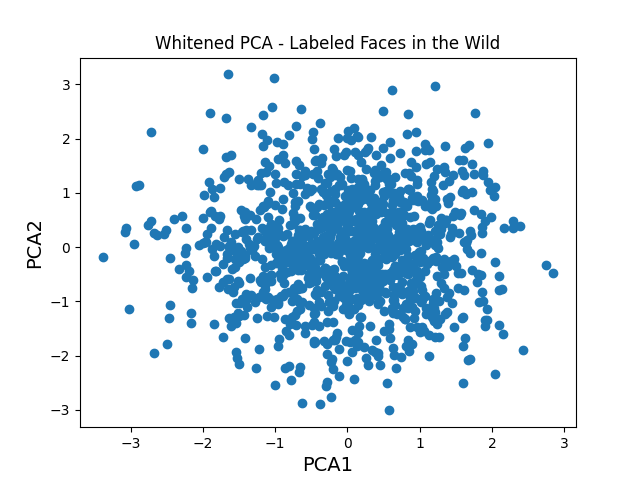
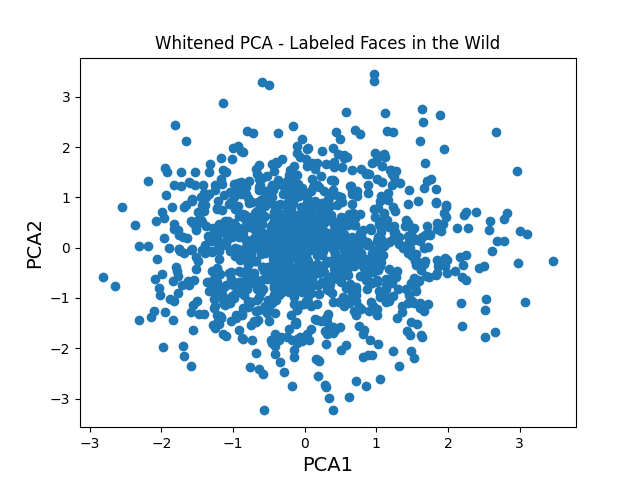
Fixing some of the z-scoring....

diff --git a/hw4/src/test_dimensionality_reduction.py b/hw4/src/test_dimensionality_reduction.py
@@ -14,9 +14,10 @@ def load_wildfaces_pca(filename):
     X, y = data_util.get_features_actuals(data)
     x_stabilized = math_util.stabilize_data(X)
 
-    x_train_zscored, _, _ = math_util.zscore_data(x_stabilized)
+    means, stds = math_util.calculate_feature_mean_std(x_stabilized)
+    x_zscored = math_util.z_score_data(x_stabilized, means, stds)
 
-    return x_train_zscored, y
+    return x_zscored, y
 
 
 def load_wildfaces_knn(filename):
@@ -30,9 +31,9 @@ def load_wildfaces_knn(filename):
     x_train_stabilized = math_util.stabilize_data(x_train)
     x_valid_stabilized = math_util.stabilize_data(x_valid)
 
-    x_train_zscored, means, stds = math_util.zscore_data(x_train_stabilized)
-    x_valid_zscored, _, _ = math_util.zscore_data(
-        x_valid_stabilized, means_train=means, stds_train=stds)
+    means, stds = math_util.calculate_feature_mean_std(x_train_stabilized)
+    x_train_zscored = math_util.z_score_data(x_train_stabilized, means, stds)
+    x_valid_zscored = math_util.z_score_data(x_valid_stabilized, means, stds)
 
     return x_train_zscored, y_train, x_valid_zscored, y_valid
 
@@ -41,7 +42,7 @@ def pca(filename, num_components):
     X, _ = load_wildfaces_pca(filename)
 
     pca = PCA()
-    non_whitened = pca.compute_pca(X, num_components)
+    _, non_whitened = pca.compute_pca(X, num_components)
     whitened = pca.whiten_data(non_whitened)
 
     # Plot Non-Whitened Data
@@ -58,8 +59,7 @@ def pca(filename, num_components):
 def knn(filename, k):
     X_train, y_train, X_valid, y_valid = load_wildfaces_knn(filename)
 
-    # Number of dimensions
-    D = np.shape(X_train)[1]
+    num_components = np.shape(X_train)[1]
 
     knn = KNN(k)
     knn.train_model(X_train, y_train)
@@ -67,15 +67,17 @@ def knn(filename, k):
 
     eval = Evaluator()
     valid_accuracy = eval.evaluate_accuracy(y_valid, valid_preds)
-    print("K =", k, "D =", D, "(Original) \nAccuracy:", valid_accuracy)
+    print("K =", k, "D =", num_components,
+          "(Original) \nAccuracy:", valid_accuracy)
 
 
 def knn_pca(filename, k, num_components):
+    print("\nK-NEAREST NEIGHBORS (KNN) WITH PCA")
     X_train, y_train, X_valid, y_valid = load_wildfaces_knn(filename)
 
     pca = PCA()
-    pca_train = pca.compute_pca(X_train, num_components)
-    pca_valid = pca.compute_pca(X_valid, num_components)
+    _, pca_train = pca.compute_pca(X_train, num_components)
+    _, pca_valid = pca.compute_pca(X_valid, num_components)
 
     knn = KNN(k)
     knn.train_model(pca_train, y_train)
@@ -83,16 +85,10 @@ def knn_pca(filename, k, num_components):
 
     eval = Evaluator()
     valid_accuracy = eval.evaluate_accuracy(y_valid, valid_preds)
-    print("K =", k, "D =", num_components, "Accuracy:", valid_accuracy)
+    print("K =", k, "D =", num_components, "\nAccuracy:", valid_accuracy)
 
-
-def knn_pca_whiten(filename, k, num_components=None):
-    X_train, y_train, X_valid, y_valid = load_wildfaces_knn(filename)
-
-    pca = PCA()
-    pca_train = pca.compute_pca(X_train, num_components)
+    print("\nK-NEAREST NEIGHBORS (KNN) WITH PCA WHITENED")
     pca_train_whiten = pca.whiten_data(pca_train)
-    pca_valid = pca.compute_pca(X_valid, num_components)
     pca_whiten_valid = pca.whiten_data(pca_valid)
 
     knn = KNN(k)
@@ -101,10 +97,9 @@ def knn_pca_whiten(filename, k, num_components=None):
 
     eval = Evaluator()
     valid_accuracy = eval.evaluate_accuracy(y_valid, valid_preds)
-    print("K =", k, "D =", num_components, "Accuracy:", valid_accuracy)
+    print("K =", k, "D =", num_components, "\nAccuracy:", valid_accuracy)
 
 
 pca(filename="lfw20.csv", num_components=2)
 knn(filename="lfw20.csv", k=1)
 knn_pca(filename="lfw20.csv", k=1, num_components=100)
-knn_pca_whiten(filename="lfw20.csv", k=1, num_components=100)

diff --git a/hw4/src/pca.py b/hw4/src/pca.py
@@ -15,9 +15,10 @@ class PCA:
         :param X: The features data
         :param num_components: The number of components to reduce our features too
 
-        :return the projected data onto the largest eigen vectors 
+        :return the largest eigen vectors and the project data onto the
+        largest eigen vectors
         '''
-        # Pre-Process data to remove duplicate code
+        # Pre-process data to remove duplicate code
         X_centered, eigen_values, eigen_vectors = self.preprocess_data(X)
 
         # Get the indices to sort in decreasing order
@@ -30,8 +31,9 @@ class PCA:
         largest_vectors = sorted_vectors[:, :num_components]
 
         # Project the data onto the top N-components
-        projection = np.dot(largest_vectors.T, X_centered.T).T
-        return projection
+        projection = np.dot(X_centered, largest_vectors)
+
+        return largest_vectors, projection
 
     def whiten_data(self, X):
         '''
@@ -51,17 +53,17 @@ class PCA:
         whitened_eigen_vectors = eigen_vectors / np.sqrt(eigen_values)
 
         # Project the data onto the whitened vectors
-        projection = np.dot(np.dot(whitened_eigen_vectors,
-                            eigen_vectors.T), X_centered.T).T
+        projection = np.dot(X_centered, np.dot(
+            whitened_eigen_vectors, eigen_vectors))
+
         return projection
 
     def preprocess_data(self, X):
         '''
         Helper function that pre-processes the feature data by performing the following:
         1) Zero center our data by subtracting the mean
-        2) Transpose our so our features are now our rows
-        3) Calculate the covariance matrix of our data
-        4) Compute the Eigen Values and Eigen Vectors of our covariance matrix
+        2) Calculate the covariance matrix of our data
+        3) Compute the Eigen Values and Eigen Vectors of our covariance matrix
 
         :param X: The current feature data
 
@@ -71,7 +73,7 @@ class PCA:
         X_centered = X - math_util.calculate_mean(X=X, axis=0)
 
         # Calculate the Covariance Matrix
-        cov_matrix = np.cov(X_centered, rowvar=False)
+        cov_matrix = np.cov(X_centered.T)
 
         # Compute Eigen values and vectors
         eigen_values, eigen_vectors = np.linalg.eig(cov_matrix)

diff --git a/hw4/src/math_util.py b/hw4/src/math_util.py
@@ -32,37 +32,56 @@ def calculate_std(X, axis=None):
 
     return np.std(X, axis=axis, ddof=1)
 
+def calculate_feature_mean_std(X):
+    '''
+    Calculates the mean and standard deviation for each feature.
+    
+    :param X: The feature data
+    
+    :return the vector of means and stds
+    '''
+    num_features = np.shape(X)[1]
 
-def zscore_data(X, means_train=None, stds_train=None):
+    means = []
+    stds = []
+
+    for i in range(num_features):
+        current_feature = X[:, i]
+
+        mean = calculate_mean(current_feature)
+        std = calculate_std(current_feature)
+
+        means.append(mean)
+        stds.append(std)
+
+    return means, stds
+
+
+def z_score_data(X, means, stds):
     '''
     Z-scores the data by subtracting the mean of the current column
     from the current column and dividing by the standard deviation
-    of the current column
-
+    of the current column.
+    
     :param X: The features data
-    :param means_train: The mean of the training data. Optional because
-    we want to calculate the mean of the training data to be used when
-    we zscore the validation data
-    :param stds_train: The standard deviation of the training data.
-    Optional becauase we want to calculate the standard deviation 
-    of the training data to be used when we zscore the validation
-    data
-
-    :return the z-scored data, the mean of each column, and the
-    standard deviation of each column
+    :param means: The means vector for the training data
+    :param stds: The standard deviation vector for the training data
+    
+    :return the z-scored data
     '''
-    means = None
-    stds = None
+    num_features = np.shape(X)[1]
 
-    if means_train is None and stds_train is None:
-        means = calculate_mean(X=X, axis=0)
-        stds = calculate_std(X=X, axis=0)
-    else:
-        means = means_train
-        stds = stds_train
+    for i in range(num_features):
+        current_feature = X[:, i]
 
-    zscored = X - means / stds
-    return zscored, means, stds
+        numerator = current_feature - means[i]
+        denominator = stds[i]
+
+        zscore = numerator / denominator
+
+        X[:, i] = zscore
+
+    return X
 
 
 def un_zscore_data(X, means, stds):
